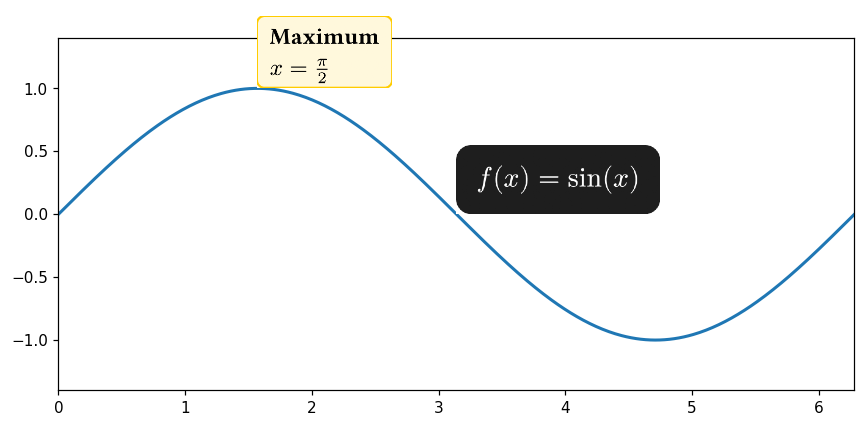
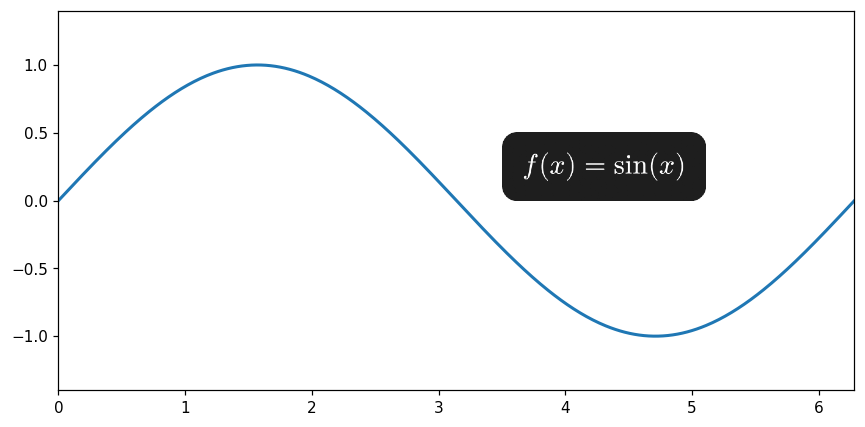
better doc

diff --git a/mplty/main.py b/mplty/main.py
@@ -13,7 +13,7 @@ def ax_typst(
     markup,
     ax=None,
     scale=1,
-    page_rule="#set page(width: auto, height: auto, margin: 0pt)",
+    page_rule='#set page(width: auto, height: auto, margin: 0pt, fill: rgb("#00000000"))',
     ppi=300,
     **kwargs,
 ):

diff --git a/README.md b/README.md
@@ -41,7 +41,6 @@ pip install git+https://github.com/y-sunflower/mplty.git
 ```py
 import numpy as np
 import matplotlib.pyplot as plt
-
 from mplty import ax_typst
 
 x = np.linspace(0, 2 * np.pi, 500)
@@ -54,7 +53,7 @@ ax.set_xlim(0, 2 * np.pi)
 ax.set_ylim(-1.4, 1.4)
 
 ax_typst(
-    np.pi,
+    3.5,
     0,
     r"""
     #box(
@@ -73,22 +72,6 @@ ax_typst(
     )
     """,
     scale=1.2,
-)
-
-ax_typst(
-    np.pi / 2,
-    1,
-    r"""
-    #box(
-      stroke: 1pt + rgb("#ffcc00"),
-      fill: rgb("#fff8dc"),
-      radius: 4pt,
-      inset: 6pt,
-    )[
-      *Maximum* \
-      $x = pi / 2$
-    ]
-    """,
 )
 ```
 